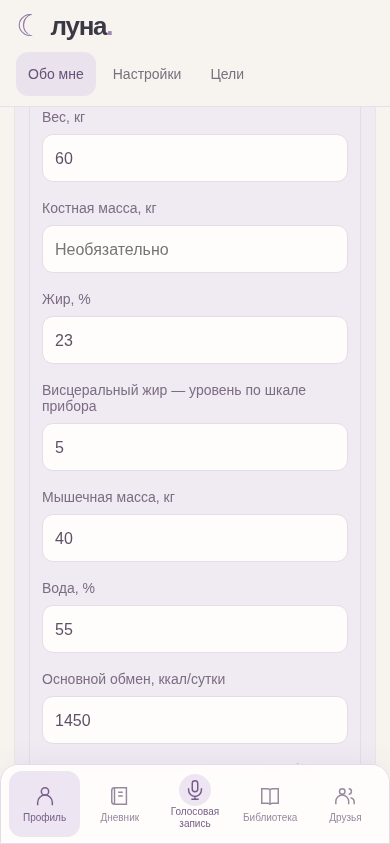
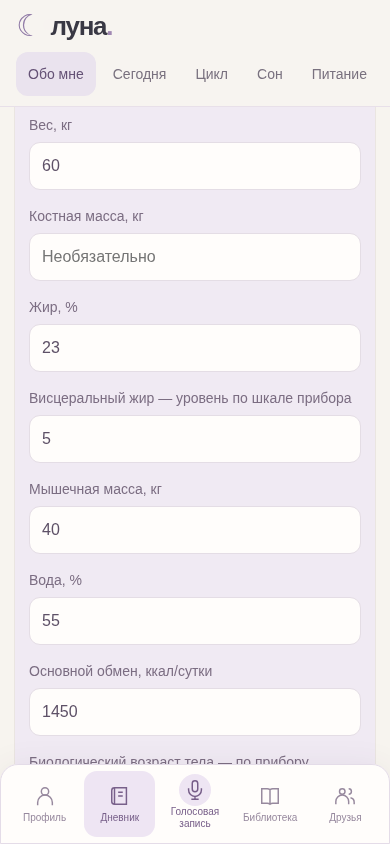
Move About me into Diary and flatten personal information headings

diff --git a/index.html b/index.html
@@ -1,14 +1,13 @@
 <!doctype html>
 <html lang="ru"><head><meta charset="utf-8"><meta name="viewport" content="width=device-width, initial-scale=1, viewport-fit=cover"><meta name="theme-color" content="#f7f4ef"><meta name="description" content="Луна — дневник цикла, сна и питания"><link rel="manifest" href="./manifest.webmanifest"><link rel="icon" href="./icon.svg"><link rel="apple-touch-icon" href="./icon-192.png"><link rel="stylesheet" href="./style.css"><link rel="stylesheet" href="./mobile.css"><link rel="stylesheet" href="./capture.css"><link rel="stylesheet" href="./profile.css"><title>Луна — в своём ритме</title></head>
-<body><div class="layout"><aside class="sidebar"><a class="logo" href="#home"><span>☾</span> луна<span class="logo-dot">.</span></a><p class="tagline">В СВОЁМ РИТМЕ</p><nav data-menu="profile" aria-label="Разделы профиля"><a href="#profile"><span class="menu-icon" aria-hidden="true">◉</span><span>Обо мне</span></a><a href="#account"><span class="menu-icon" aria-hidden="true">◉</span><span>Аккаунт</span></a><a href="#settings"><span class="menu-icon" aria-hidden="true">⚙</span><span>Настройки</span></a><a href="#subscription"><span class="menu-icon" aria-hidden="true">◇</span><span>Подписка</span></a></nav><nav data-menu="diary" aria-label="Разделы дневника" hidden><a href="#home" aria-label="Мой день">◌ <span data-short="Сегодня">Мой день</span></a><a href="#cycle" aria-label="Мой цикл">✿ <span data-short="Цикл">Мой цикл</span></a><a href="#sleep" aria-label="Сон и отдых">☾ <span data-short="Сон">Сон и отдых</span></a><a href="#food" aria-label="Питание">♧ <span data-short="Питание">Питание</span></a><a href="#activity" aria-label="Активность и заметки"><span data-short="Ещё">Активность и заметки</span></a></nav><nav data-menu="library" aria-label="Разделы библиотеки" hidden><a href="#library"><span>Библиотека</span></a></nav><nav data-menu="friends" aria-label="Разделы друзей" hidden><a href="#friends"><span>Друзья</span></a></nav><div class="sidebar-note">Место, где можно<br>прислушаться к себе.<span>Твои данные остаются<br>в этом браузере.</span></div></aside>
-<main><header><span id="today"></span><span class="badge" id="connection">На связи</span></header><section data-main-view="profile" id="profile" class="card profile-card"><h1>Обо мне</h1>
+<body><div class="layout"><aside class="sidebar"><a class="logo" href="#home"><span>☾</span> луна<span class="logo-dot">.</span></a><p class="tagline">В СВОЁМ РИТМЕ</p><nav data-menu="profile" aria-label="Разделы профиля"><a href="#account"><span class="menu-icon" aria-hidden="true">◉</span><span>Аккаунт</span></a><a href="#settings"><span class="menu-icon" aria-hidden="true">⚙</span><span>Настройки</span></a><a href="#subscription"><span class="menu-icon" aria-hidden="true">◇</span><span>Подписка</span></a></nav><nav data-menu="diary" aria-label="Разделы дневника" hidden><a href="#profile" aria-label="Обо мне"><span data-short="Обо мне">Обо мне</span></a><a href="#home" aria-label="Мой день">◌ <span data-short="Сегодня">Мой день</span></a><a href="#cycle" aria-label="Мой цикл">✿ <span data-short="Цикл">Мой цикл</span></a><a href="#sleep" aria-label="Сон и отдых">☾ <span data-short="Сон">Сон и отдых</span></a><a href="#food" aria-label="Питание">♧ <span data-short="Питание">Питание</span></a><a href="#activity" aria-label="Активность и заметки"><span data-short="Ещё">Активность и заметки</span></a></nav><nav data-menu="library" aria-label="Разделы библиотеки" hidden><a href="#library"><span>Библиотека</span></a></nav><nav data-menu="friends" aria-label="Разделы друзей" hidden><a href="#friends"><span>Друзья</span></a></nav><div class="sidebar-note">Место, где можно<br>прислушаться к себе.<span>Твои данные остаются<br>в этом браузере.</span></div></aside>
+<main><header><span id="today"></span><span class="badge" id="connection">На связи</span></header><section data-main-view="diary" id="profile" class="card profile-card"><h1>Обо мне</h1>
 <form id="profile-form" class="profile-sections">
-<fieldset class="profile-group"><legend>Общие данные</legend><div class="profile-fields"><label>Имя<input id="profile-name" maxlength="60" required autocomplete="given-name"></label><div class="birth-group" role="group" aria-labelledby="birth-label"><span id="birth-label">Дата рождения</span><input id="profile-birthDate" type="hidden"><div class="birth-parts">
+<div class="profile-basics"><div class="profile-fields profile-basic-fields"><label class="about-label">Имя<input id="profile-name" maxlength="60" required autocomplete="given-name"></label><div class="birth-group" role="group" aria-labelledby="birth-label"><span id="birth-label" class="about-label">Дата рождения</span><input id="profile-birthDate" type="hidden"><div class="birth-parts">
 <div class="birth-part"><label for="profile-birthDay">День</label><div class="birth-control"><input id="profile-birthDay" type="text" inputmode="numeric" autocomplete="bday-day" maxlength="2" pattern="[0-9]{1,2}" placeholder="ДД" required><select id="profile-pickDay" aria-label="Выбрать день"><option value="">⌄</option></select></div></div>
 <div class="birth-part"><label for="profile-birthMonth">Месяц</label><div class="birth-control"><input id="profile-birthMonth" type="text" inputmode="numeric" autocomplete="bday-month" maxlength="2" pattern="[0-9]{1,2}" placeholder="ММ" required><select id="profile-pickMonth" aria-label="Выбрать месяц"><option value="">⌄</option></select></div></div>
 <div class="birth-part"><label for="profile-birthYear">Год</label><div class="birth-control"><input id="profile-birthYear" type="text" inputmode="numeric" autocomplete="bday-year" maxlength="4" pattern="[0-9]{4}" placeholder="ГГГГ" required><select id="profile-pickYear" aria-label="Выбрать год"><option value="">⌄</option></select></div></div>
-</div><p class="fine birth-help">Введи цифры или выбери значения стрелками.</p></div></div><p id="profile-age-hint" class="fine"></p></fieldset>
-<div class="additional-heading"><h2>Дополнительные данные</h2><p class="fine">Заполняй только то, чем хочешь поделиться с дневником.</p></div>
+</div><p class="fine birth-help">Введи цифры или выбери значения стрелками.</p></div></div><p id="profile-age-hint" class="fine"></p></div>
 <fieldset class="profile-group"><legend>Женское здоровье</legend><div class="profile-fields"><label>Пол для справочных таблиц питания<select id="profile-sex"><option value="">Не указан</option><option value="female">Женский</option><option value="male">Мужской</option></select></label></div><div id="women-health-fields">
 <div class="profile-fields"><label>Менструальный статус<select id="profile-menstrualStage"><option value="unspecified">Не указан</option><option value="menstruating">Менструации есть</option><option value="premenarchal">Менструации ещё не начались</option><option value="amenorrhea">Менструаций сейчас нет — причина уточняется</option><option value="postpartum">Послеродовой период</option><option value="perimenopause">Перименопауза — переход к менопаузе</option><option value="menopause">Менопауза — установлена врачом</option><option value="surgical">После операции, влияющей на менструации</option><option value="treatment">Подавление менструаций на фоне лечения</option><option value="other">Другое / не хочу указывать</option></select></label>
 <label>Регулярность цикла<select id="profile-cyclePattern"><option value="unspecified">Не указана / пока наблюдаю</option><option value="regular">Обычно регулярный</option><option value="irregular">Нерегулярный</option><option value="not-applicable">Сейчас неприменимо</option></select></label>
@@ -39,4 +38,4 @@
 <section id="subscription" class="section card view-panel" data-main-view="profile" hidden><h2>Подписка</h2><p class="muted">Платные тарифы и оформление подписки пока не подключены.</p></section>
 <section id="library" class="section card view-panel" data-main-view="library" hidden><span class="eyebrow">УЗНАВАТЬ И ПОНИМАТЬ СЕБЯ</span><h2>Библиотека</h2><div class="empty-view"><span class="empty-symbol" aria-hidden="true">▤</span><h3>Место для полезных материалов</h3><p>Библиотека пока пуста. Здесь появятся материалы о питании, сне и самочувствии.</p></div></section>
 <section id="friends" class="section card view-panel" data-main-view="friends" hidden><span class="eyebrow">РЯДОМ ДРУГ С ДРУГОМ</span><h2>Друзья</h2><div class="empty-view"><span class="empty-symbol" aria-hidden="true">♧</span><h3>Твоё пространство общения</h3><p>Раздел подготовлен. Добавление друзей и общение пока недоступны.</p></div></section>
-<footer><span>луна. Меньше требований к себе, больше внимания.</span><button id="export-data" class="secondary">Скачать мои данные</button><button id="install" class="secondary" hidden>Установить приложение</button></footer><details class="privacy-details"><summary>Приватность и ограничения</summary><p class="privacy">Это первая версия дневника, не медицинский сервис. Записи дневника не отправляются на сервер и не синхронизируются. При поиске в Open Food Facts передаётся только поисковый запрос. При голосовом вводе браузер может передавать звук своему сервису распознавания; приложение не хранит аудио. Очистка браузера удалит записи — сохраняй резервную копию. Не используй общий профиль браузера для личных данных.</p></details><p id="notice" class="error" role="status"></p></main></div><nav class="bottom-nav" aria-label="Основная навигация"><a href="#profile" data-view="profile"><svg viewBox="0 0 24 24" aria-hidden="true"><circle cx="12" cy="7" r="4"/><path d="M4 22v-3a8 8 0 0 1 16 0v3"/></svg><span>Профиль</span></a><a href="#home" data-view="diary"><svg viewBox="0 0 24 24" aria-hidden="true"><path d="M6 3h13v18H6a3 3 0 0 1-3-3V6a3 3 0 0 1 3-3ZM6 3v18M10 8h5M10 12h5"/></svg><span>Дневник</span></a><a href="#capture" data-view="capture" class="capture-tab"><svg viewBox="0 0 24 24" aria-hidden="true"><rect x="9" y="2" width="6" height="12" rx="3"/><path d="M5 10v2a7 7 0 0 0 14 0v-2M12 19v3M8 22h8"/></svg><span>Голосовая запись</span></a><a href="#library" data-view="library"><svg viewBox="0 0 24 24" aria-hidden="true"><path d="M3 4h6a5 5 0 0 1 3 1 5 5 0 0 1 3-1h6v16h-6a5 5 0 0 0-3 1 5 5 0 0 0-3-1H3ZM12 5v16"/></svg><span>Библиотека</span></a><a href="#friends" data-view="friends"><svg viewBox="0 0 24 24" aria-hidden="true"><circle cx="9" cy="7" r="3"/><path d="M2 21v-3a7 7 0 0 1 14 0v3M16 4a3 3 0 0 1 0 6M18 14a5 5 0 0 1 4 5v2"/></svg><span>Друзья</span></a></nav><script src="./profile-model.js" defer></script><script src="./profile.js" defer></script><script src="./norms.js" defer></script><script src="./app.js" defer></script><script src="./profile-parser.js" defer></script><script src="./capture-parser.js" defer></script><script src="./voice.js" defer></script><script src="./capture.js" defer></script><script src="./navigation.js" defer></script></body></html>
+<footer><span>луна. Меньше требований к себе, больше внимания.</span><button id="export-data" class="secondary">Скачать мои данные</button><button id="install" class="secondary" hidden>Установить приложение</button></footer><details class="privacy-details"><summary>Приватность и ограничения</summary><p class="privacy">Это первая версия дневника, не медицинский сервис. Записи дневника не отправляются на сервер и не синхронизируются. При поиске в Open Food Facts передаётся только поисковый запрос. При голосовом вводе браузер может передавать звук своему сервису распознавания; приложение не хранит аудио. Очистка браузера удалит записи — сохраняй резервную копию. Не используй общий профиль браузера для личных данных.</p></details><p id="notice" class="error" role="status"></p></main></div><nav class="bottom-nav" aria-label="Основная навигация"><a href="#account" data-view="profile"><svg viewBox="0 0 24 24" aria-hidden="true"><circle cx="12" cy="7" r="4"/><path d="M4 22v-3a8 8 0 0 1 16 0v3"/></svg><span>Профиль</span></a><a href="#home" data-view="diary"><svg viewBox="0 0 24 24" aria-hidden="true"><path d="M6 3h13v18H6a3 3 0 0 1-3-3V6a3 3 0 0 1 3-3ZM6 3v18M10 8h5M10 12h5"/></svg><span>Дневник</span></a><a href="#capture" data-view="capture" class="capture-tab"><svg viewBox="0 0 24 24" aria-hidden="true"><rect x="9" y="2" width="6" height="12" rx="3"/><path d="M5 10v2a7 7 0 0 0 14 0v-2M12 19v3M8 22h8"/></svg><span>Голосовая запись</span></a><a href="#library" data-view="library"><svg viewBox="0 0 24 24" aria-hidden="true"><path d="M3 4h6a5 5 0 0 1 3 1 5 5 0 0 1 3-1h6v16h-6a5 5 0 0 0-3 1 5 5 0 0 0-3-1H3ZM12 5v16"/></svg><span>Библиотека</span></a><a href="#friends" data-view="friends"><svg viewBox="0 0 24 24" aria-hidden="true"><circle cx="9" cy="7" r="3"/><path d="M2 21v-3a7 7 0 0 1 14 0v3M16 4a3 3 0 0 1 0 6M18 14a5 5 0 0 1 4 5v2"/></svg><span>Друзья</span></a></nav><script src="./profile-model.js" defer></script><script src="./profile.js" defer></script><script src="./norms.js" defer></script><script src="./app.js" defer></script><script src="./profile-parser.js" defer></script><script src="./capture-parser.js" defer></script><script src="./voice.js" defer></script><script src="./capture.js" defer></script><script src="./navigation.js" defer></script></body></html>

diff --git a/profile.css b/profile.css
@@ -2,3 +2,9 @@
 @media(max-width:767px),(max-width:1023px) and (pointer:coarse){.profile-card>h1{font-size:36px;margin-bottom:26px}.profile-fields{grid-template-columns:1fr;gap:18px}.profile-group{padding:18px 12px}.profile-group>legend{font-size:18px}.profile-sections,#profile-form{gap:24px;grid-template-columns:minmax(0,1fr)}#profile-form>fieldset,#profile-form>.additional-heading{grid-column:1/-1}.profile-sections>.additional-heading h2{font-size:25px}.profile-group label{font-size:14px}body[data-view=profile] main>header{font-size:12px;margin:0 2px 16px;gap:8px}.profile-group .badge{font-size:10px}.profile-group input[type=date]{min-inline-size:0}.profile-bmi{padding:14px}.profile-card{padding:20px 14px}}
 .birth-group{min-width:0;color:#7b6d82;font-size:13px;display:flex;flex-direction:column;gap:9px}.birth-parts{display:grid;grid-template-columns:1fr 1fr 1.3fr;gap:6px;min-width:0}.birth-part{min-width:0;display:grid;gap:8px}.birth-part>label{font-size:12px;min-width:0}.birth-control{display:grid;grid-template-columns:minmax(0,1fr) 44px;min-width:0;border:1px solid #e4dde5;background:#fffdfb;border-radius:10px;overflow:hidden}.birth-control input,.birth-control select{margin:0;border:0;border-radius:0;min-width:0;min-height:48px;padding:10px 0;text-align:center;background:transparent;font-size:16px}.birth-control select{width:44px;appearance:none;-webkit-appearance:none;border-left:1px solid #eee7ef;cursor:pointer;color:#796487}.birth-control select option{color:#393844;text-align:left}.birth-control:focus-within{outline:2px solid #866295;outline-offset:2px}.birth-control input:focus-visible,.birth-control select:focus-visible{outline-offset:-3px}.birth-help{margin:0!important;font-size:12px!important}#account .text-link{display:block}
 @media(max-width:767px),(max-width:1023px) and (pointer:coarse){.birth-group{font-size:14px}.birth-part>label{font-size:12px}.birth-control input,.birth-control select{padding:10px 0;font-size:16px}.sidebar nav[data-menu=profile]{gap:2px}.sidebar nav[data-menu=profile] a{padding-left:9px;padding-right:9px}.sidebar nav[data-menu=profile] a span{font-size:13px}}
+
+/* About me belongs to the diary; main field labels share one level. */
+.profile-basic-fields{grid-template-columns:minmax(0,1fr);gap:24px}.profile-card .profile-group{border:0;padding:0;border-radius:0}.profile-card .about-label,.profile-card .profile-group>legend{font-family:Arial,Helvetica,sans-serif;font-size:16px;font-weight:500;line-height:1.4;color:#5e5167}.profile-card .profile-group>legend{padding:0;margin-bottom:18px}.profile-basics{min-width:0}body[data-section=profile] main>header{display:flex;font-size:13px;margin-bottom:20px}
+@media(max-width:767px),(max-width:1023px) and (pointer:coarse){body[data-section=profile] main>header{font-size:12px;margin:0 2px 16px}.profile-card .about-label,.profile-card .profile-group>legend{font-size:16px}.profile-basic-fields{grid-template-columns:minmax(0,1fr)}}
+
+.profile-basics input,.profile-basics select{font-size:16px;min-height:48px}

diff --git a/navigation.js b/navigation.js
@@ -2,9 +2,9 @@
 'use strict';
 (() => {
  const phone=matchMedia('(max-width:767px),(max-width:1023px) and (pointer:coarse)');
- const profileSections=new Set(['profile','account','settings','subscription']);
- function current(){if(location.hash==='#goals')history.replaceState(null,'','#profile');let id;try{id=decodeURIComponent(location.hash.slice(1)||'profile');}catch{id='profile';}const target=document.getElementById(id);const area=target?.closest('[data-main-view]')?.dataset.mainView||'profile';return {id,target,area,profileSection:profileSections.has(id)?id:'profile'};}
- function refresh(){const route=current();let section=route.target?.closest('#food,#sleep,#cycle,#activity')?.id||'home';if(section==='cycle'&&$('#cycle').dataset.available==='false')section='home';document.body.dataset.view=route.area;for(const panel of document.querySelectorAll('[data-main-view]')){let visible=panel.dataset.mainView===route.area;if(route.area==='profile')visible=visible&&panel.id===route.profileSection;if(route.area==='diary'&&phone.matches)visible=visible&&(panel.id===section||!panel.id&&section==='home');if(panel.id==='cycle'&&panel.dataset.available==='false')visible=false;panel.hidden=!visible;}
+ const profileSections=new Set(['account','settings','subscription']);
+ function current(){if(location.hash==='#goals')history.replaceState(null,'','#profile');let id;try{id=decodeURIComponent(location.hash.slice(1)||'profile');}catch{id='profile';}const target=document.getElementById(id);const area=target?.closest('[data-main-view]')?.dataset.mainView||'profile';return {id,target,area,profileSection:profileSections.has(id)?id:'account'};}
+ function refresh(){const route=current();let section=route.target?.closest('#profile,#food,#sleep,#cycle,#activity')?.id||'home';if(section==='cycle'&&$('#cycle').dataset.available==='false')section='home';document.body.dataset.view=route.area;document.body.dataset.section=route.area==='diary'?section:route.profileSection;for(const panel of document.querySelectorAll('[data-main-view]')){let visible=panel.dataset.mainView===route.area;if(route.area==='profile')visible=visible&&panel.id===route.profileSection;if(route.area==='diary'){if(section==='profile')visible=visible&&panel.id==='profile';else{visible=visible&&panel.id!=='profile';if(phone.matches)visible=visible&&(panel.id===section||!panel.id&&section==='home');}}if(panel.id==='cycle'&&panel.dataset.available==='false')visible=false;panel.hidden=!visible;}
   for(const menu of document.querySelectorAll('.sidebar nav[data-menu]'))menu.hidden=menu.dataset.menu!==route.area;
   for(const link of document.querySelectorAll('.bottom-nav a')){const active=link.dataset.view===route.area;link.classList.toggle('active',active);if(active)link.setAttribute('aria-current','page');else link.removeAttribute('aria-current');}
   let diarySection=section;if(diarySection==='cycle'&&$('#cycle').dataset.available==='false')diarySection='home';

diff --git a/sw.js b/sw.js
@@ -1,4 +1,4 @@
-const CACHE='luna-diary-v17';
+const CACHE='luna-diary-v18';
 const ASSETS=['./','./index.html','./style.css','./mobile.css','./capture.css','./profile.css','./profile-model.js','./profile.js','./capture-parser.js','./capture.js','./app.js','./voice.js','./navigation.js','./profile-parser.js','./norms.js','./manifest.webmanifest','./icon.svg','./icon-192.png','./icon-512.png'];
 self.addEventListener('install',event=>{event.waitUntil(caches.open(CACHE).then(cache=>cache.addAll(ASSETS)).then(()=>self.skipWaiting()));});
 self.addEventListener('activate',event=>{event.waitUntil(caches.keys().then(keys=>Promise.all(keys.filter(key=>(key.startsWith('little-steps-')||key.startsWith('luna-diary-'))&&key!==CACHE).map(key=>caches.delete(key)))).then(()=>self.clients.claim()));});

diff --git a/tests/profile_controls_smoke.py b/tests/profile_controls_smoke.py
@@ -1,6 +1,6 @@
 """Manual/dropdown DOB, real date validation, profile menus, disabled profile dictation."""
 from playwright.sync_api import sync_playwright, expect
-from profile_form import fill_birth_date
+from profile_form import fill_birth_date, open_about
 from datetime import datetime,timezone
 import os
 URL=os.environ.get('LUNA_TEST_URL','http://127.0.0.1:8016/Test/')
@@ -9,7 +9,7 @@ with sync_playwright() as p:
  page=ctx.new_page();errors=[];page.on('pageerror',lambda e:errors.append(str(e)));page.clock.install(time=datetime(2026,11,2,12,tzinfo=timezone.utc));page.goto(URL);page.wait_for_function('navigator.serviceWorker.controller!==null')
  assert page.locator('#profile [type=date]').count()==0 and page.locator('[data-voice-section="profile-fill"]').count()==0
  assert page.locator('#profile .voice-start').count()==0 and page.evaluate('micCalls')==0
- menu=page.locator('[data-menu="profile"]');assert menu.locator('a span:not(.menu-icon)').all_text_contents()==['Обо мне','Аккаунт','Настройки','Подписка']
+ menu=page.locator('[data-menu="profile"]');assert menu.locator('a span:not(.menu-icon)').all_text_contents()==['Аккаунт','Настройки','Подписка']
  page.locator('#profile-name').fill('София');fill_birth_date(page,'2000-02-29');page.locator('#profile-form>button').click();assert page.evaluate('state.profile.birthDate')=='2000-02-29' and page.evaluate('profileAge()')==26
  # Lists adapt to leap years and month length; changing a year does not silently fix a typed day.
  page.locator('#profile-pickYear').select_option('2001');assert page.locator('#profile-pickDay option[value="29"]').count()==0
@@ -19,21 +19,22 @@ with sync_playwright() as p:
  page.locator('#profile-pickYear').select_option('1996');page.locator('#profile-pickMonth').select_option('11');page.locator('#profile-pickDay').select_option('2');page.locator('#profile-form>button').click();assert page.evaluate('state.profile.birthDate')=='1996-11-02'
  fill_birth_date(page,'2026-11-03');page.locator('#profile-form>button').click();assert page.evaluate('state.profile.birthDate')=='1996-11-02'
  fill_birth_date(page,'1996-11-02');page.locator('#profile-name').fill('Черновик')
+ page.locator('.bottom-nav [data-view="profile"]').click()
  for section in ['account','settings','subscription']:
   menu.locator(f'[href="#{section}"]').click();expect(page.locator('#'+section)).to_be_visible();assert page.locator('.bottom-nav [aria-current="page"]').inner_text()=='Профиль'
   assert menu.locator('[aria-current="page"]').get_attribute('href')=='#'+section
- menu.locator('[href="#profile"]').click();assert page.locator('#profile-name').input_value()=='Черновик'
+ open_about(page);assert page.locator('#profile-name').input_value()=='Черновик'
  # All profile items fit on small phones, inputs remain readable and picker controls tappable.
  for width in [320,375,390,430,844,1280]:
   page.set_viewport_size({'width':width,'height':844});assert page.evaluate('document.documentElement.scrollWidth<=innerWidth'),width
   if width<500:
-   for link in menu.locator('a').all():
+   for link in page.locator('[data-menu="diary"] [href="#profile"]').all():
     box=link.bounding_box();assert box['x']>=0 and box['x']+box['width']<=width
    for part in ['Day','Month','Year']:
     assert page.locator('#profile-pick'+part).bounding_box()['width']>=44
     assert page.locator('#profile-birth'+part).evaluate('(e)=>parseFloat(getComputedStyle(e).fontSize)')>=16
  page.set_viewport_size({'width':390,'height':844});page.locator('#profile-name').fill('София');page.locator('#profile-form>button').click();page.evaluate('document.activeElement.blur();scrollTo({top:0,behavior:"instant"})');page.screenshot(path='/tmp/luna-check/profile-birth-parts.png')
  ctx.set_offline(True);page.reload();assert page.locator('#profile-birthDay').input_value()=='02' and page.locator('#profile-birthMonth').input_value()=='11' and page.locator('#profile-birthYear').input_value()=='1996'
- menu.locator('[href="#account"]').click();expect(page.locator('#account')).to_be_visible();page.reload();expect(page.locator('#account')).to_be_visible()
+ page.locator('.bottom-nav [data-view="profile"]').click();expect(page.locator('#account')).to_be_visible();page.reload();expect(page.locator('#account')).to_be_visible()
  page.goto(URL+'#goals');expect(page.locator('#profile')).to_be_visible();assert page.evaluate('location.hash')=='#profile'
- assert not errors,errors;b.close();print('PASS: manual/dropdown date parts, leap-year/day lists, invalid/future dates, saved DOB hydration, four profile submenus, drafts, phone controls, offline/direct/legacy routes, no profile microphone')
+ assert not errors,errors;b.close();print('PASS: manual/dropdown date parts, leap-year/day lists, invalid/future dates, saved DOB hydration, three profile submenus and About me in Diary, drafts, phone controls, offline/direct/legacy routes, no profile microphone')

diff --git a/tests/navigation_smoke.py b/tests/navigation_smoke.py
@@ -1,4 +1,4 @@
-from profile_form import fill_birth_date
+from profile_form import fill_birth_date, open_about
 """Bottom navigation, contextual profile menu and preservation of existing diary state."""
 from playwright.sync_api import sync_playwright, expect
 from pathlib import Path
@@ -14,14 +14,14 @@ with sync_playwright() as p:
  assert page.locator('body').evaluate('(e)=>getComputedStyle(e).fontFamily').startswith('Arial')
  assert bottom.get_by_role('link').all_text_contents()==['Профиль','Дневник','Голосовая запись','Библиотека','Друзья']
  assert page.locator('#profile').is_visible() and not page.locator('#sleep').is_visible()
- assert page.locator('[data-menu="profile"] a').all_text_contents()==['◉Обо мне','◉Аккаунт','⚙Настройки','◇Подписка']
- page.locator('#profile-name').fill('Несохранённое имя')
+ assert page.locator('[data-menu="profile"] a').all_text_contents()==['◉Аккаунт','⚙Настройки','◇Подписка']
+ page.locator('#profile-name').fill('Несохранённое имя');assert bottom.locator('[aria-current="page"]').inner_text()=='Дневник';bottom.get_by_role('link',name='Профиль',exact=True).click();expect(page.locator('#account')).to_be_visible()
  page.locator('[data-menu="profile"] a[href="#settings"]').click();expect(page.locator('#settings')).to_be_visible() and not page.locator('#profile').is_visible()
  assert bottom.locator('[aria-current="page"]').inner_text()=='Профиль'
  with page.expect_download() as d:page.locator('#settings-export').click()
  data=json.loads(Path(d.value.path()).read_text());assert 'meals' in data and 'sleep' in data
  page.locator('[data-menu="profile"] a[href="#account"]').click();expect(page.locator('#account')).to_be_visible();page.locator('[data-menu="profile"] a[href="#subscription"]').click();expect(page.locator('#subscription')).to_be_visible()
- page.locator('[data-menu="profile"] a[href="#profile"]').click();assert page.locator('#profile-name').input_value()=='Несохранённое имя'
+ open_about(page);assert page.locator('#profile-name').input_value()=='Несохранённое имя'
  # Save a profile and use a diary, then verify tab transitions retain both data and drafts.
  fill_birth_date(page,'1991-01-01');page.locator('#profile-sex').select_option('female');page.locator('#profile-weight').fill('60');page.locator('#profile-form button').click()
  bottom.get_by_role('link',name='Дневник',exact=True).click();expect(page.locator('#home')).to_be_visible() and page.locator('#sleep').is_visible() and not page.locator('#profile').is_visible()
@@ -34,7 +34,7 @@ with sync_playwright() as p:
  bottom.get_by_role('link',name='Друзья',exact=True).click();expect(page.locator('#friends')).to_be_visible() and not page.locator('#library').is_visible()
  bottom.get_by_role('link',name='Дневник',exact=True).click();assert voice.locator('.voice-editor').input_value()=='Черновик дневника сна'
  assert page.locator('#food-calories').inner_text()=='379 ккал'
- bottom.get_by_role('link',name='Профиль',exact=True).click();assert page.locator('#profile-name').input_value()=='Несохранённое имя'
+ open_about(page);assert page.locator('#profile-name').input_value()=='Несохранённое имя'
  # Clinical visibility survives routing: a male or lactating profile must not reveal cycle predictions.
  page.locator('#profile-sex').select_option('male');page.locator('#profile-form button').click();bottom.get_by_role('link',name='Дневник',exact=True).click()
  assert not page.locator('#cycle').is_visible() and not page.locator('[data-menu="diary"] a[href="#cycle"]').is_visible()

diff --git a/tests/about_smoke.py b/tests/about_smoke.py
@@ -1,4 +1,4 @@
-from profile_form import fill_birth_date
+from profile_form import fill_birth_date, open_about
 """About-me structure, DOB-derived norms, health context, optional device readings and persistence."""
 from playwright.sync_api import sync_playwright, expect
 from datetime import datetime,timezone
@@ -10,10 +10,15 @@ with sync_playwright() as p:
  page.clock.install(time=datetime(2026,11,2,12,tzinfo=timezone.utc));page.goto(URL);page.wait_for_function('navigator.serviceWorker.controller!==null')
  assert page.locator('#today').is_visible() and page.locator('#today').inner_text()=='Понедельник, 2 ноября'
  assert page.locator('#profile h1').inner_text()=='Обо мне'
+ assert page.locator('.bottom-nav [aria-current="page"]').inner_text()=='Дневник'
+ assert not page.locator('#home').is_visible() and not page.locator('#sleep').is_visible()
+ assert 'Общие данные' not in page.locator('#profile').inner_text() and 'Дополнительные данные' not in page.locator('#profile').inner_text()
+ styles=page.locator('#profile .about-label,#profile .profile-group>legend').evaluate_all('(els)=>els.map(e=>{const s=getComputedStyle(e);return [s.fontFamily,s.fontSize,s.fontWeight].join("|")})')
+ assert len(styles)==4 and len(set(styles))==1,styles
  assert 'НАЧНЁМ' not in page.locator('#profile').inner_text() and 'Справочные ориентиры учитывают возраст' not in page.locator('#profile').inner_text()
  assert page.locator('#profile-age').count()==0
- assert page.locator('#profile-form fieldset').first.locator('input:not([type=hidden])').count()==4
- assert page.locator('#profile-form fieldset legend').all_text_contents()==['Общие данные','Женское здоровье','Тело']
+ assert page.locator('.profile-basics input:not([type=hidden])').count()==4
+ assert page.locator('#profile-form fieldset legend').all_text_contents()==['Женское здоровье','Тело']
  page.locator('#profile-name').fill('София');fill_birth_date(page,'1996-11-02')
  def save():page.locator('#profile-form>button').click()
  save();assert page.evaluate('state.profile.age')==30 and page.evaluate('reference("iron")') is None
@@ -29,7 +34,7 @@ with sync_playwright() as p:
  assert page.evaluate('phaseAt(today)') is not None
  page.locator('.bottom-nav [href="#home"]').click();page.locator('[data-menu="diary"] [href="#cycle"]').click()
  page.locator('#period-start').fill('2026-10-20');page.locator('#cycle-length').fill('30');page.locator('#cycle-form button').click()
- page.locator('.bottom-nav [href="#profile"]').click();assert page.locator('#profile-cycleLength').input_value()=='30' and page.evaluate('state.profile.health.cycleLength')==30
+ open_about(page);assert page.locator('#profile-cycleLength').input_value()=='30' and page.evaluate('state.profile.health.cycleLength')==30
  for key,value in [('cyclePattern','irregular'),('menstrualStage','menopause'),('hormones','combined')]:
   page.locator('#profile-'+key).select_option(value);save();assert page.evaluate('phaseAt(today)') is None
   page.locator('#profile-'+key).select_option({'cyclePattern':'regular','menstrualStage':'menstruating','hormones':'none'}[key]);save()

diff --git a/tests/mobile_smoke.py b/tests/mobile_smoke.py
@@ -1,4 +1,4 @@
-from profile_form import fill_birth_date
+from profile_form import fill_birth_date, open_about
 """Phone navigation, touch forms, rotation, data retention and offline styles."""
 from playwright.sync_api import sync_playwright, expect
 from pathlib import Path
@@ -59,7 +59,7 @@ with sync_playwright() as p:
  privacy=page.locator('.privacy-details>summary').bounding_box();assert privacy['y']+privacy['height']<=nav.bounding_box()['y']
  ctx.set_offline(True);page.reload();expect(page.locator('#food')).to_be_visible();layout()
  assert page.locator('#food-calories').inner_text()=='379 ккал' and page.locator('#water-total').inner_text()=='300 мл'
- nav.locator('[href="#profile"]').click();assert page.locator('#profile-name').input_value()=='София'
+ open_about(page);assert page.locator('#profile-name').input_value()=='София'
  assert not errors,errors
  browser.close()
  print('PASS: phone widths 320/375/390/430, touch landscape, large controls, single-section diary, saved sleep/food/water, drafts, microphone cancellation, desktop resize, offline mobile styles')

diff --git a/tests/profile_form.py b/tests/profile_form.py
@@ -2,3 +2,8 @@
 def fill_birth_date(page,value):
  year,month,day=value.split('-')
  for part,text in [('Day',day),('Month',month),('Year',year)]:page.locator('#profile-birth'+part).fill(text)
+
+def open_about(page):
+ page.locator('.bottom-nav [data-view="diary"]').click()
+ page.locator('[data-menu="diary"] [href="#profile"]').click()
+ page.locator('#profile').wait_for(state='visible')
